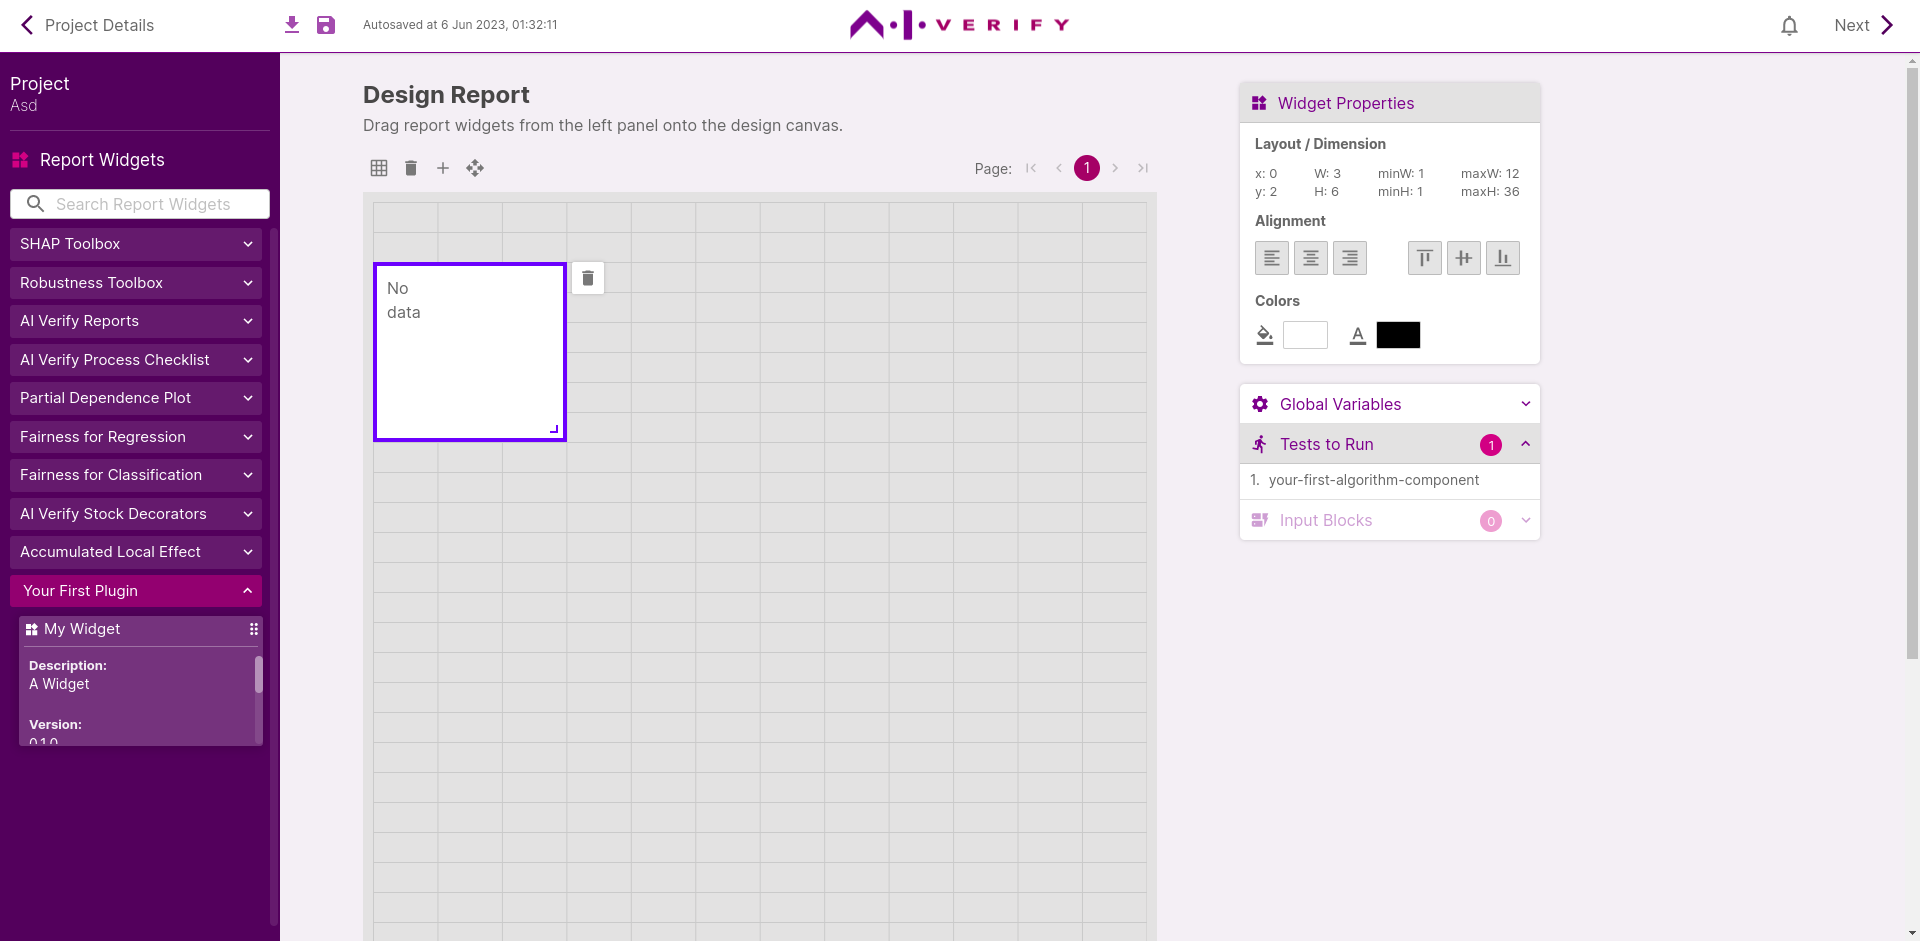
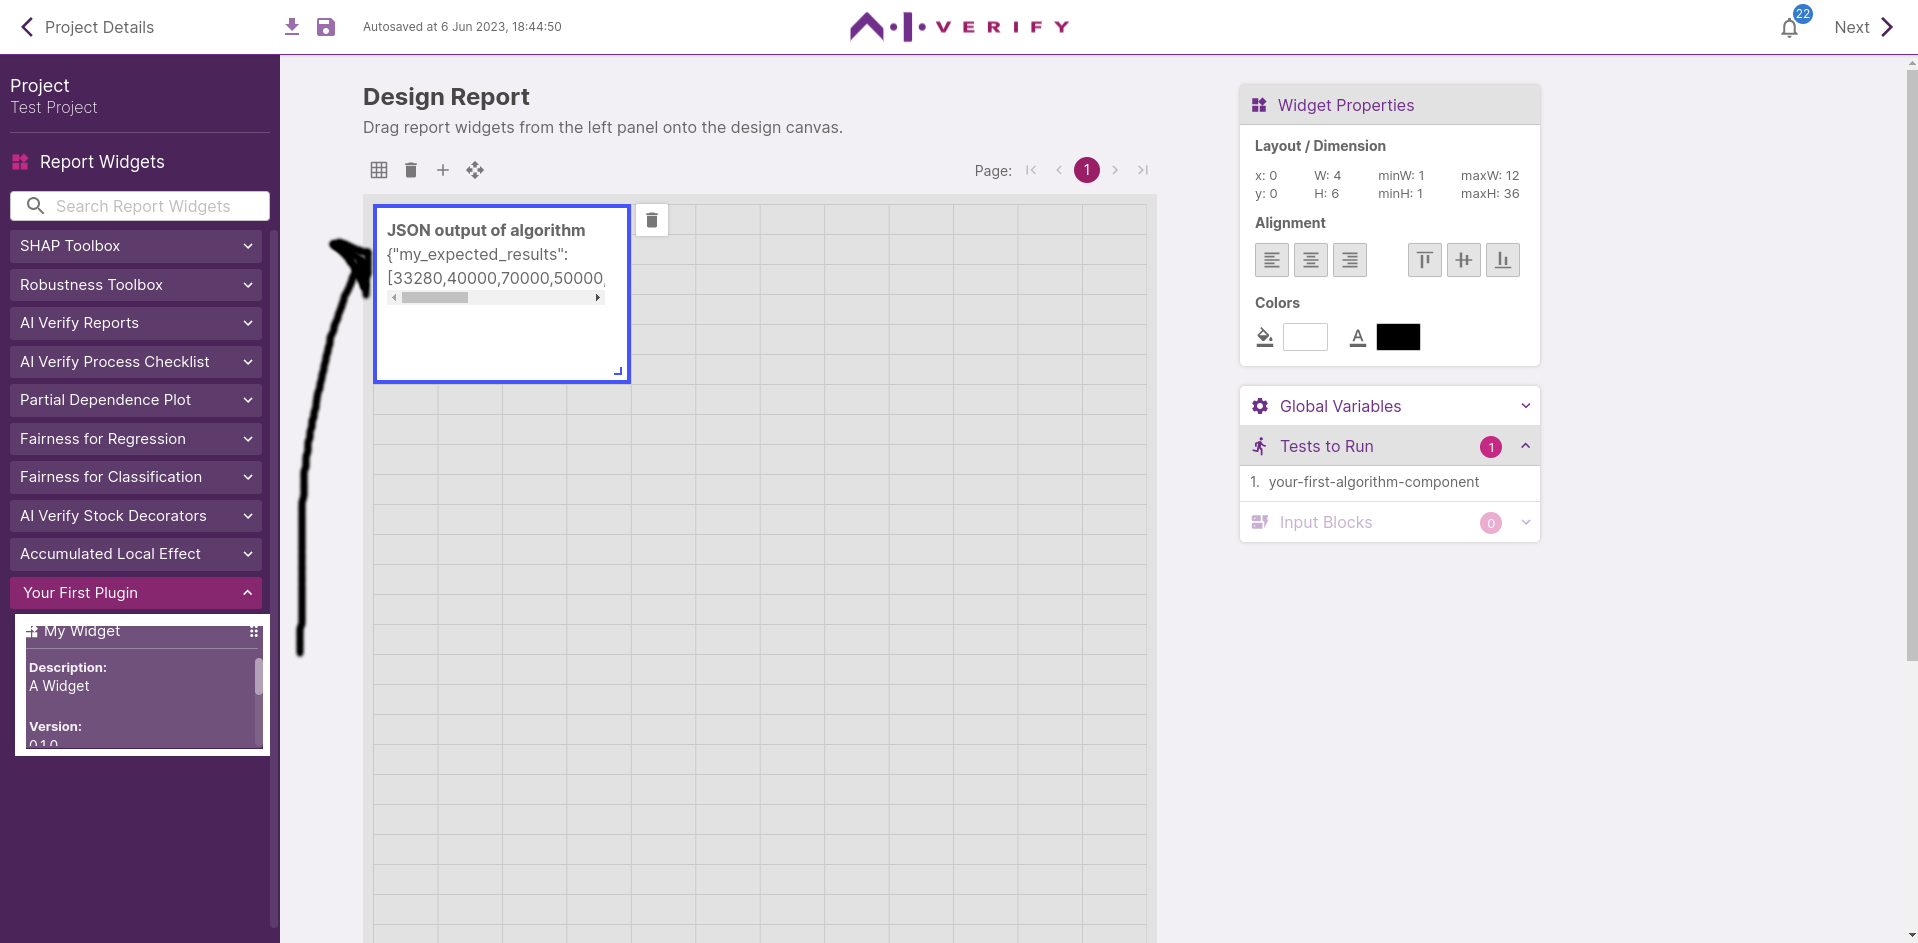
fixed formatting and added images to deploy plugin

diff --git a/docs/guided_example/deploy_your_plugin.md b/docs/guided_example/deploy_your_plugin.md
@@ -77,9 +77,9 @@ To upload the plugin, start the frontend portal of AI Verify. You will need to i
    
 3. The following prompt should appear to inform you that the plugin has been installed successfully: 
 
-![plugin_installed_successfully](../images/plugin_installed_successfully.png)
+      ![plugin_installed_successfully](../images/plugin_installed_successfully.png)
 
-You should see your plugin in the list of installed plugins:
+4. You should see your plugin in the list of installed plugins:
    ![plugin_manager_page](../images/plugin_manager_page.png)
 
 ## Generating the Report
@@ -90,15 +90,15 @@ You should see your plugin in the list of installed plugins:
     ![project_details](../images/project_details.png)
 3. On the **Design Report** page, drag your widget from the left panel to the canvas:
    ![canvas](../images/canvas.png)
-   Click "Next" on the top right.
+   You can resize the the widget and click on the alignment buttons to refresh its size. When you're ready, click "Next" on the top right.
 4. On the **Select the Datasets and AI Model to be tested** page, select and upload the dataset, ground truth dataset and model. You can use the dataset provided in the template. Refer to the following table for reference.
 
-| Data, Model, and Test Arguments | Selected Dataset / Model / Test Arguments |
-| ---- | ---------- |
-| Testing Dataset | ```pickle_pandas_mock_binary_classification_credit_risk_testing.sav``` |
-| Ground Truth Dataset | ```pickle_pandas_mock_binary_classification_credit_risk_testing.sav```, Ground Truth: ```default``` |
-| AI Model | ```binary_classification_mock_credit_risk_sklearn.linear_model._logistic.LogisticRegression.sav``` | 
-| Test Arguments | ```gender``` |
+      | Data, Model, and Test Arguments | Selected Dataset / Model / Test Arguments |
+      | ---- | ---------- |
+      | Testing Dataset | ```pickle_pandas_mock_binary_classification_credit_risk_testing.sav``` |
+      | Ground Truth Dataset | ```pickle_pandas_mock_binary_classification_credit_risk_testing.sav```, Ground Truth: ```default``` |
+      | AI Model | ```binary_classification_mock_credit_risk_sklearn.linear_model._logistic.LogisticRegression.sav``` | 
+      | Test Arguments | ```gender``` |
 
 5. For the model, choose ```Upload AI Model``` and click "Next".
    ![upload_model](../images/upload_model.png)
@@ -110,4 +110,6 @@ You should see your plugin in the list of installed plugins:
    ![confirm_generate_report](../images/confirm_generate_report.png) 
 9. You should see the logs of what is happening in the backend and when your report has been generated, you should see the "Test Completed" prompt in the top right. Click on "VIEW REPORT" to see your report:
    ![generated_report](../images/generated_report.png) 
+10. Your report will be displayed as a PDF file.
+   ![report](../images/report.png) 
    Congratulations! You have generated your first report. 
